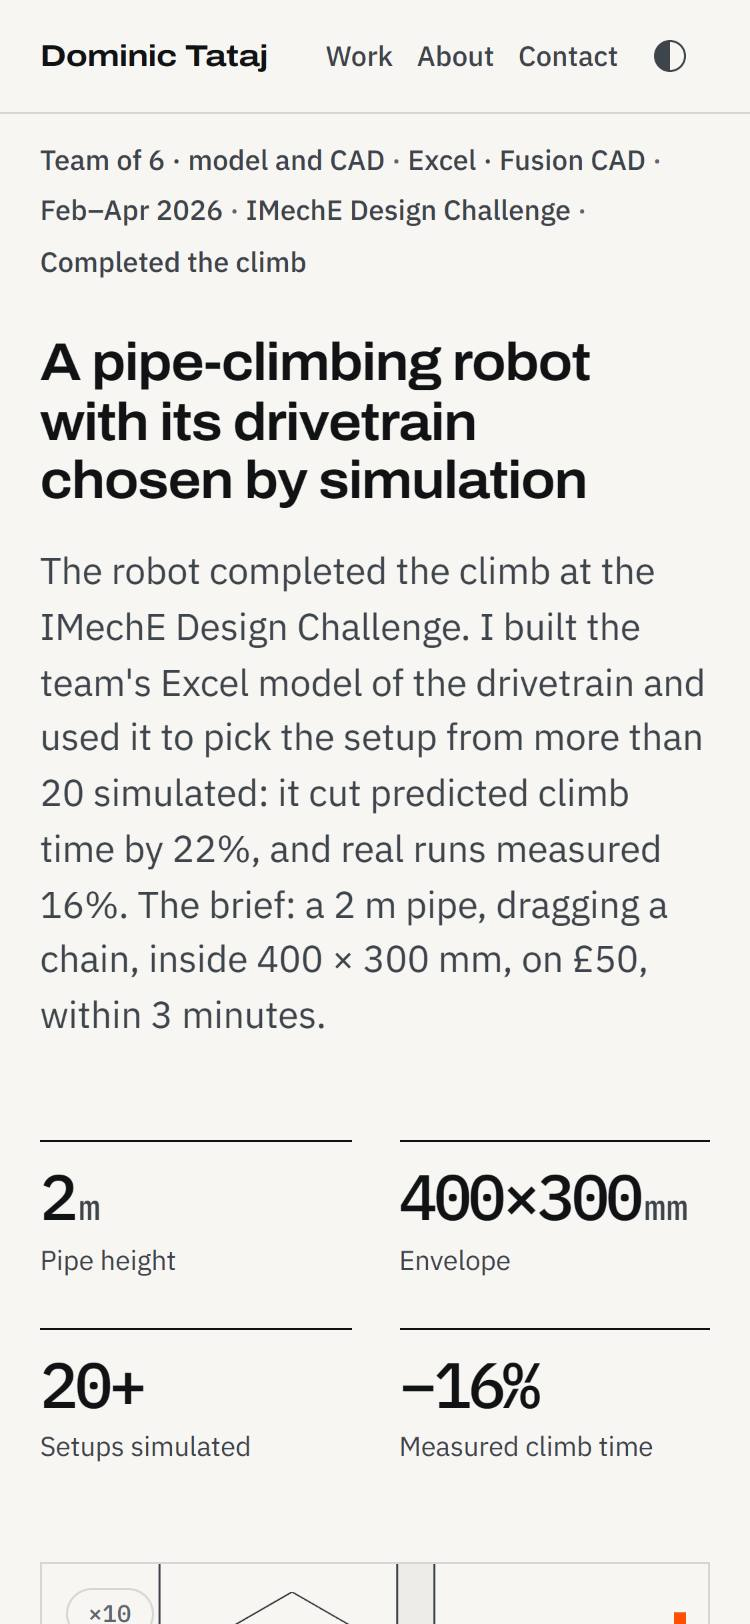
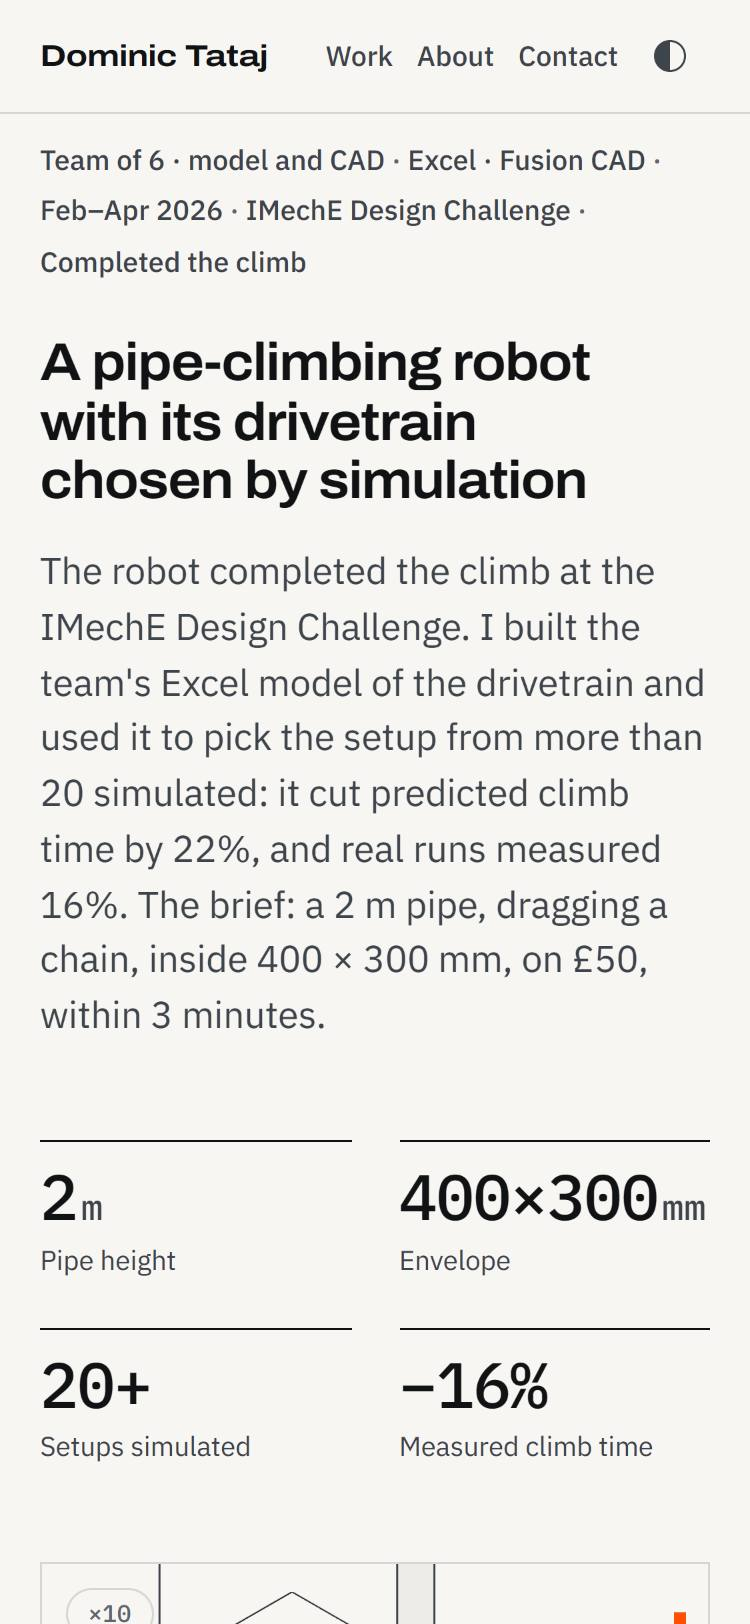
npm test is green and stable; REVIEW.md scorecard, gallery and known issues
- Playwright projects: 'site' (the assertions, two workers: software
  WebGL is CPU-heavy), then 'perf' on its own (it times a throttled CPU
  and was flaky beside parallel tests), and 'screens' for review
  captures; npm test and npm run screens select them. npm test passes
  84/84, twice in a row, with default settings on this laptop (it had 7
  timing failures at baseline).
- The photo-strip paging test waits for the lazy photos to load.
- REVIEW.md: the scorecard's After column (verification round 2), a
  before/after gallery, the executive summary's outcome, and the known
  P2s and backlog after verification. DESIGN_PLAN phase S complete.
- After screenshots recaptured on the final build.

diff --git a/playwright.config.js b/playwright.config.js
@@ -6,15 +6,26 @@ module.exports = defineConfig({
   testDir: "tests",
   timeout: 60000,
   fullyParallel: true,
+  // three.js renders in software WebGL here, which is CPU-heavy: more workers than this made the
+  // 3D-figure tests time out on a laptop (REVIEW.md, baseline NOTES)
+  workers: 2,
   reporter: [["list"]],
   use: {
     baseURL: "http://127.0.0.1:4173",
     browserName: "chromium",
     viewport: { width: 1440, height: 900 },
-    // lets headless Chromium fall back to software WebGL, so Fig. 01 (three.js) renders
+    // lets headless Chromium fall back to software WebGL, so Fig. 02 (three.js) renders
     launchOptions: { args: ["--enable-unsafe-swiftshader"] },
     trace: "retain-on-failure"
   },
+  // npm test runs "site", then "perf" on its own: the performance budget times a throttled CPU, and
+  // sharing the machine with the parallel tests made its first-paint figure flaky. npm run screens
+  // runs "screens": review screenshots and metrics, not assertions.
+  projects: [
+    { name: "site", testIgnore: [/perf\.spec\.js/, /screens\.spec\.js/, /review-.*\.spec\.js/] },
+    { name: "perf", testMatch: /perf\.spec\.js/, dependencies: ["site"], fullyParallel: false },
+    { name: "screens", testMatch: [/screens\.spec\.js/, /review-.*\.spec\.js/] },
+  ],
   webServer: {
     // gzips text like GitHub Pages, so the performance test sees realistic sizes (tests/serve.cjs)
     command: "node tests/serve.cjs 4173",

diff --git a/tests/photos.spec.js b/tests/photos.spec.js
@@ -29,6 +29,9 @@ test.describe("paging", () => {
   test("the buttons page the strip and stop at its ends", async ({ page }) => {
   await page.goto("/", { waitUntil: "networkidle" });   // loads after the load event
   await toView(page);
+  // the photos are lazy: wait until they have all loaded, or the strip's width changes mid-paging
+  await page.locator(".film img").evaluateAll((is) => is.forEach((i) => { i.loading = "eager"; }));
+  await page.waitForFunction(() => [...document.querySelectorAll(".film img")].every((i) => i.complete && i.naturalWidth));
   await expect(page.locator(".cs-nav")).toBeVisible();
   await expect(page.locator("#cs-prev")).toBeDisabled();
   const left = () => page.locator(".film").evaluate((f) => f.scrollLeft);

diff --git a/tests/review-capture.spec.js b/tests/review-capture.spec.js
@@ -1,7 +1,7 @@
 // Design-review screenshots (REVIEW.md). Run: npm run screens -- review-capture
 // Saves full-page and above-the-fold shots at four sizes, light and dark, plus a phone run with
 // reduced motion, to review/<REVIEW_OUT>/ (default "baseline"; "after" for the re-audit).
-// Tagged @screens, so npm test skips it.
+// In the "screens" project (playwright.config.js), so npm test skips it.
 const { test } = require("@playwright/test");
 const { phone } = require("./helpers");
 

diff --git a/tests/review-metrics.spec.js b/tests/review-metrics.spec.js
@@ -1,5 +1,5 @@
 // Design-review metrics (REVIEW.md), written to review/<REVIEW_OUT>/metrics.json.
-// Run: npm run screens -- review-metrics. Tagged @screens, so npm test skips it.
+// Run: npm run screens -- review-metrics. In the "screens" project, so npm test skips it.
 // The local server doesn't compress, so "bytes" is what crossed the wire here and "gzip" is an
 // estimate of what GitHub Pages would send.
 const { test } = require("@playwright/test");

diff --git a/tests/perf.spec.js b/tests/perf.spec.js
@@ -5,6 +5,7 @@ const { test, expect } = require("@playwright/test");
 const { phone } = require("./helpers");
 
 test.use(phone);
+test.describe.configure({ mode: "serial" });   // one at a time, after the rest (playwright.config.js)
 
 test("first paint under 1.2 s on a throttled phone; under 60 KB of gzipped JS", async ({ page, context }) => {
   const cdp = await context.newCDPSession(page);

diff --git a/REVIEW.md b/REVIEW.md
@@ -20,90 +20,115 @@ Status of the plan is tracked in `DESIGN_PLAN.md`, phase S.
    more reviewers calling the look generic: all three hold), this is a **redesign** of the identity
    layer: type, hero, project anatomy and surfaces. The figures and the engineering underneath
    stay.
-5. The order of work: the targeting copy first; then new tokens; then the hero, E-04 leading, phone
-   density, honesty fixes in the figures, accessibility and performance. Several items need content
-   only Dom has (CV, hardware photos, E-03 baselines, the E-01 model count).
+5. Outcome: the targeting copy, E-04 first, honest figure captions, a recruiter-first hero (name,
+   roles, availability, right to work and email on the first phone screen) and a "flight log"
+   identity chosen by a blind study of three prototypes; a second independent verification found
+   no P0 or P1 left, and every reviewer's score rose (visual design 6 → 8, recruiter 5 → 8).
+   Several items still need content only Dom has: a CV, hardware photos, E-03 baselines and the
+   E-01 model count.
 
 ## Scorecard
 
-Each reviewer scored its own dimensions (1 to 10). "After" is filled in by the independent
-verifier in phase 5.
+Each reviewer scored its own dimensions (1 to 10). "After" is the second independent
+verification (`review/verify/round-2.md`), on the final build; the first round
+(`round-1.md`) scored recruiter 8, hiring engineer 8.5, visual design 8, interaction 7.5,
+accessibility 8, performance and SEO 8.5, copy 8.5, benchmark 7.5, and found three P1s, since fixed.
 
 | Reviewer | Dimension | Before | After |
 |---|---|---|---|
-| recruiter | 10-second clarity | 6 | |
-| | 30-second skim | 4 | |
-| | CTA and CV findability | 4 | |
-| | Fit for defence/autonomy recruiters | 5 | |
-| | Fit for software recruiters | 3 | |
-| | Memorability | 6 | |
-| | **Overall** (10-second test: FAIL) | **5** | |
-| hiring-engineer | Ownership clarity | 6 | |
-| | Quantified results | 7 | |
-| | Method, testing and limitations | 6 | |
-| | Value of the interactive figures | 7 | |
-| | Project ordering for the target roles | 4 | |
-| | Technical credibility | 7 | |
-| | **Overall** | **6** | |
-| visual-design | Typography | 6 | |
-| | Grid and alignment | 6 | |
-| | Spacing system | 6 | |
-| | Colour and contrast | 6 | |
-| | Hierarchy | 5 | |
-| | Component consistency | 6 | |
-| | Depth and elevation | 6 | |
-| | Imagery | 6 | |
-| | Dark theme | 6 | |
-| | Distinctiveness and premium feel | 5 | |
-| | **Overall** | **6** | |
-| interaction-motion | Purposefulness | 6 | |
-| | Smoothness | 7 | |
-| | Discoverability | 6 | |
-| | Interruptibility and control | 7 | |
-| | Reduced-motion fallbacks | 9 | |
-| | Touch behaviour | 6 | |
-| | Scroll-linked effects | 4 | |
-| | Cursor and micro-interactions | 7 | |
-| | **Overall** | **6** | |
-| accessibility | Contrast (light) | 5 | |
-| | Contrast (dark) | 8 | |
-| | Keyboard and focus | 7 | |
-| | Semantics, landmarks and headings | 6 | |
-| | Alternatives for non-text content | 8 | |
-| | Target size | 6 | |
-| | Reflow and zoom | 6 | |
-| | Motion and reduced motion | 8 | |
-| | **Overall** | **6.5** | |
-| performance-seo | First-load weight | 7 | |
-| | LCP | 7 | |
-| | CLS | 5 | |
-| | Font loading | 5 | |
-| | Images | 7 | |
-| | Lazy-loading and main thread | 6 | |
-| | Metadata and SEO | 5 | |
-| | Social cards | 3 | |
-| | Structured data | 1 | |
-| | **Overall** | **5** | |
-| copy | Headline and first impression | 4 | |
-| | Role and target clarity | 3 | |
-| | Availability and logistics | 6 | |
-| | Project titles and summaries | 5 | |
-| | Scanability | 5 | |
-| | Voice and consistency | 7 | |
-| | UK spelling and mechanics | 7 | |
-| | Microcopy and CTAs | 5 | |
-| | **Overall** | **5** | |
-| benchmark | Memorability | 6 | |
-| | 10-second clarity | 5 | |
-| | Craft | 7 | |
-| | Proof of work | 6 | |
-| | Credibility for engineering hiring | 6 | |
-| | Distinctiveness | 6 | |
-| | **Overall** | **6** | |
+| recruiter | 10-second clarity | 6 | 9 |
+| | 30-second skim | 4 | 8 |
+| | CTA and CV findability | 4 | 7 |
+| | Fit for defence/autonomy recruiters | 5 | 8 |
+| | Fit for software recruiters | 3 | 7 |
+| | Memorability | 6 | 7 |
+| | **Overall** (10-second test: FAIL → PASS) | **5** | **8** |
+| hiring-engineer | Ownership clarity | 6 | 9 |
+| | Quantified results | 7 | 9 |
+| | Method, testing and limitations | 6 | 9 |
+| | Value of the interactive figures | 7 | 8 |
+| | Project ordering for the target roles | 4 | 9 |
+| | Technical credibility | 7 | 8 |
+| | **Overall** | **6** | **9** |
+| visual-design | Typography | 6 | 8 |
+| | Grid and alignment | 6 | 8 |
+| | Spacing system | 6 | 8 |
+| | Colour and contrast | 6 | 8 |
+| | Hierarchy | 5 | 9 |
+| | Component consistency | 6 | 7 |
+| | Depth and elevation | 6 | 7 |
+| | Imagery | 6 | 7 |
+| | Dark theme | 6 | 8 |
+| | Distinctiveness and premium feel | 5 | 7 |
+| | **Overall** | **6** | **8** |
+| interaction-motion | Purposefulness | 6 | 8 |
+| | Smoothness | 7 | 7 |
+| | Discoverability | 6 | 7 |
+| | Interruptibility and control | 7 | 8 |
+| | Reduced-motion fallbacks | 9 | 9 |
+| | Touch behaviour | 6 | 7 |
+| | Scroll-linked effects | 4 | 7 |
+| | Cursor and micro-interactions | 7 | 7 |
+| | **Overall** | **6** | **7** |
+| accessibility | Contrast (light) | 5 | 8 |
+| | Contrast (dark) | 8 | 9 |
+| | Keyboard and focus | 7 | 9 |
+| | Semantics, landmarks and headings | 6 | 9 |
+| | Alternatives for non-text content | 8 | 8 |
+| | Target size | 6 | 8 |
+| | Reflow and zoom | 6 | 9 |
+| | Motion and reduced motion | 8 | 9 |
+| | **Overall** | **6.5** | **9** |
+| performance-seo | First-load weight | 7 | 8 |
+| | LCP | 7 | 9 |
+| | CLS | 5 | 8 |
+| | Font loading | 5 | 7 |
+| | Images | 7 | 8 |
+| | Lazy-loading and main thread | 6 | 8 |
+| | Metadata and SEO | 5 | 9 |
+| | Social cards | 3 | 9 |
+| | Structured data | 1 | 9 |
+| | **Overall** | **5** | **8** |
+| copy | Headline and first impression | 4 | 9 |
+| | Role and target clarity | 3 | 9 |
+| | Availability and logistics | 6 | 9 |
+| | Project titles and summaries | 5 | 8 |
+| | Scanability | 5 | 8 |
+| | Voice and consistency | 7 | 9 |
+| | UK spelling and mechanics | 7 | 9 |
+| | Microcopy and CTAs | 5 | 8 |
+| | **Overall** | **5** | **9** |
+| benchmark | Memorability | 6 | 7 |
+| | 10-second clarity | 5 | 9 |
+| | Craft | 7 | 8 |
+| | Proof of work | 6 | 8 |
+| | Credibility for engineering hiring | 6 | 8 |
+| | Distinctiveness | 6 | 6 |
+| | **Overall** | **6** | **7** |
 
 "Generic or template-like?": recruiter **yes**, visual-design **yes**, benchmark **yes (at the
 fold)**; hiring-engineer no, interaction-motion no, copy no (voice); accessibility and
 performance-seo did not assess it.
+
+## Before and after
+
+Screenshots are JPEG copies of `review/baseline/` and `review/after/` (same capture spec,
+`tests/review-capture.spec.js`). Phone: 375×812; laptop: 1440×900.
+
+| | Before | After |
+|---|---|---|
+| Phone hero | ![before](review/baseline-jpg/phone-light-fold.jpg) | ![after](review/after-jpg/phone-light-fold.jpg) |
+| Desktop hero | ![before](review/baseline-jpg/laptop-light-fold.jpg) | ![after](review/after-jpg/laptop-light-fold.jpg) |
+| A project: E-04 | ![before](review/baseline-jpg/scroll/laptop-light-06.jpg) | ![after](review/after-jpg/scroll/laptop-light-02.jpg) |
+| About | ![before](review/baseline-jpg/scroll/laptop-light-12.jpg) | ![after](review/after-jpg/scroll/laptop-light-12.jpg) |
+| Dark mode | ![before](review/baseline-jpg/laptop-dark-fold.jpg) | ![after](review/after-jpg/laptop-dark-fold.jpg) |
+| Dark, phone | ![before](review/baseline-jpg/phone-dark-fold.jpg) | ![after](review/after-jpg/phone-dark-fold.jpg) |
+| Link preview | (drawing-set card, see git history of `og-image.png`) | ![after](og-image.png) |
+
+Measured (details in `review/after/NOTES.md`): throttled-phone first paint 1280 → about 950 ms
+(budget 1200), first-load JS 18 → 19 KB gzipped (budget 60), CLS 0.01 → 0.001, phone page 25 → 22
+screens, axe-core 0 violations in both themes at 1440 and 375 px. Fonts grew from 81 to 147 KB
+(Archivo's variable file; see the backlog).
 
 ## Merged findings
 
@@ -256,8 +281,9 @@ The losing directions, as prototyped (JPEG copies; full PNGs are regenerable):
 
 ## Plan
 
-Each batch is one commit and references finding IDs. P0 first, then P1, then P2 as time allows.
-The visual batches follow the winning direction.
+Each batch is one or more commits referencing finding IDs. P0 first, then P1, then P2 as time allows.
+The visual batches follow the winning direction. **Status: all twelve batches done** (S.10's rig-on-touch
+item and some P2s are in the backlog below); see `git log` on `claude/design-review`.
 
 | Batch | Contents | Findings |
 |---|---|---|
@@ -312,6 +338,22 @@ The visual batches follow the winning direction.
 7. **Artefacts** he can share: the E-01 report, the E-02 model, an E-03 Ansys image (R-38).
 8. **Optional**: whether to state UK security-clearance eligibility (only if true).
 9. **Search Console**: verify the site property and request re-indexing after merge (PERF-12).
+
+## Known issues and backlog after verification
+
+Two independent verification rounds (`review/verify/round-1.md`, `round-2.md`). Round 1 found
+three P1s (phone figure clipping, short in-page jumps on phones, 320 px reflow), fixed with
+regression tests; round 2 found **no P0 or P1**. Its remaining P2s, not yet done:
+
+- Under instant programmatic scroll jumps, `content-visibility: auto` on the project sheets can
+  still shift layout (0 with wheel or touch scrolling; CLS 0.002 in normal use).
+- Fig. 01's column-header buttons share accessible names across the two worlds; give each an
+  `aria-label` with its world.
+- Caption link-buttons (Replay, Try the hover controller) are 20 px tall and the gain sliders
+  16 px on phones; they pass 2.5.8 by spacing, but bigger thumbs would be kinder.
+- The open hover rig still captures vertical touch scrolls (MOT-05).
+- Self-host an instanced, subset Archivo (about 25 KB instead of 90 KB) if fonts matter more
+  than the build-free simplicity of Google Fonts.
 
 ## P3 backlog
 

diff --git a/DESIGN_PLAN.md b/DESIGN_PLAN.md
@@ -222,11 +222,11 @@ S.4 [x] **E-04 leads**: project order E-04, E-03, E-02, E-01; figures renumbered
 S.5 [x] **Project anatomy**: new sheet layout, metadata line, key figures under each summary, E-04 key figures, results first (R-03, R-05, R-06, R-09, R-21).
 S.6 [x] **Accuracy**: Fig. 00 and rig wording, E-04 title, E-01 count, E-02 limitation, count-ups removed (R-10, R-13, R-14, R-15).
 S.7 [x] **Phone length and legibility**: Fig. 01 unpinned on phones, Fig. 02/05/06 for phones, parts list (R-08, R-20, R-27, R-31).
-S.8 [ ] **Figure language**: sentence case and correct units; one tag, segmented control and slider (R-12, R-26).
-S.9 [ ] **About and Contact**: skills table on phones, mailto, CV slot (R-07, R-09, R-29, R-30).
-S.10 [ ] **Accessibility**: semantics, loops that settle, rig on touch (R-30, R-32, R-33).
-S.11 [ ] **Performance and SEO**: JSON-LD, OG image, theme-color, loading fixes, perf test (R-17, R-34, R-35).
-S.12 [ ] **Dark theme pass** (R-24).
+S.8 [x] **Figure language**: sentence case and correct units; one tag, segmented control and slider (R-12, R-26).
+S.9 [x] **About and Contact**: skills table on phones, mailto, CV slot (R-07, R-09, R-29, R-30).
+S.10 [x] **Accessibility**: semantics, loops that settle (R-30, R-32). The rig on touch (R-33) is in REVIEW.md's backlog.
+S.11 [x] **Performance and SEO**: JSON-LD, OG image, theme-color, loading fixes, perf test (R-17, R-34, R-35).
+S.12 [x] **Dark theme pass** (R-24).
    Direction (phase 3, `review/directions/`): three prototypes in separate worktrees, judged blind.
    Built: direction A's "flight log" visual system (Archivo semi-expanded headings, Plex Sans and
    Mono, warm white, hairline rules, no cards, only interactive figures raised, Fig. 00 as a
@@ -234,7 +234,7 @@ S.12 [ ] **Dark theme pass** (R-24).
    out among the facts, LinkedIn and GitHub beside Email me, a projects-and-results table) and C's
    colour-keyed caption words. The hero drone (H.1) is gone: the hero's one moving thing is now
    the flight, which carries information (MOT-03).
-S.13 [ ] Independent re-audit, after screenshots, scorecard "after" column, PR.
+S.13 [x] Independent re-audit, after screenshots, scorecard "after" column, PR.
 
 ## 4. About & contact
 

diff --git a/README.md b/README.md
@@ -52,8 +52,10 @@ To view it locally, serve the folder (ES modules don't load from `file://`):
 Tests (Playwright, Chromium):
 
     npm install && npx playwright install chromium   # first time only
-    npm test            # structure, hero and its drone, rig, 3D frame, replay and its strip, benchmark, climb, scatter, photos, quirks, contact, motion, performance
-    npm run screens     # review screenshots in test-results/screens/
+    npm test            # structure, hero and its flight log, rig, 3D frame, replay and its strip, benchmark, climb, scatter, photos, quirks, contact, motion; then performance, on its own
+    npm run screens     # review screenshots in test-results/screens/, and the design review's captures (REVIEW.md)
+
+`npm test` runs on two workers: Fig. 02 renders three.js in software WebGL, which is CPU-heavy.
 
 To re-record the replay, fly the courses from a checkout of the drone-racing repo (it needs
 that repo's requirements: numpy, opencv-python-headless, scipy). This runs its simulator and

diff --git a/review/after/NOTES.md b/review/after/NOTES.md
@@ -8,7 +8,7 @@ by screen: phone 375×812, **22 screens**, was 25; laptop 1440×900, 15 screens)
 phone run. In the full-page parts the pinned Fig. 02 (pinned only on screens 600 px or wider) shows
 as about 1.5 screens of empty panel: on screen that height is the scroll that turns the model.
 
-Regenerate: `REVIEW_OUT=after npx playwright test tests/review-capture.spec.js tests/review-metrics.spec.js --grep @screens`
+Regenerate: `REVIEW_OUT=after npx playwright test tests/review-capture.spec.js tests/review-metrics.spec.js --project=screens`
 (Playwright starts `node tests/serve.cjs 4173` if nothing is serving 127.0.0.1:4173).
 
 ## Metrics (`metrics.json`), before and after

diff --git a/review/baseline/NOTES.md b/review/baseline/NOTES.md
@@ -19,7 +19,7 @@
 - Sizes: phone 375×812 (iPhone 13 metrics in Chromium, DPR 3, touch), tablet 768×1024,
   laptop 1440×900, desktop 1920×1080.
 
-Regenerate: `REVIEW_OUT=baseline npx playwright test tests/review-capture.spec.js tests/review-metrics.spec.js --grep @screens`
+Regenerate: `REVIEW_OUT=baseline npx playwright test tests/review-capture.spec.js tests/review-metrics.spec.js --project=screens`
 (needs a server on 127.0.0.1:4173; on this machine `python -m http.server 4173 --bind 127.0.0.1`).
 
 ## Metrics (`metrics.json`)
